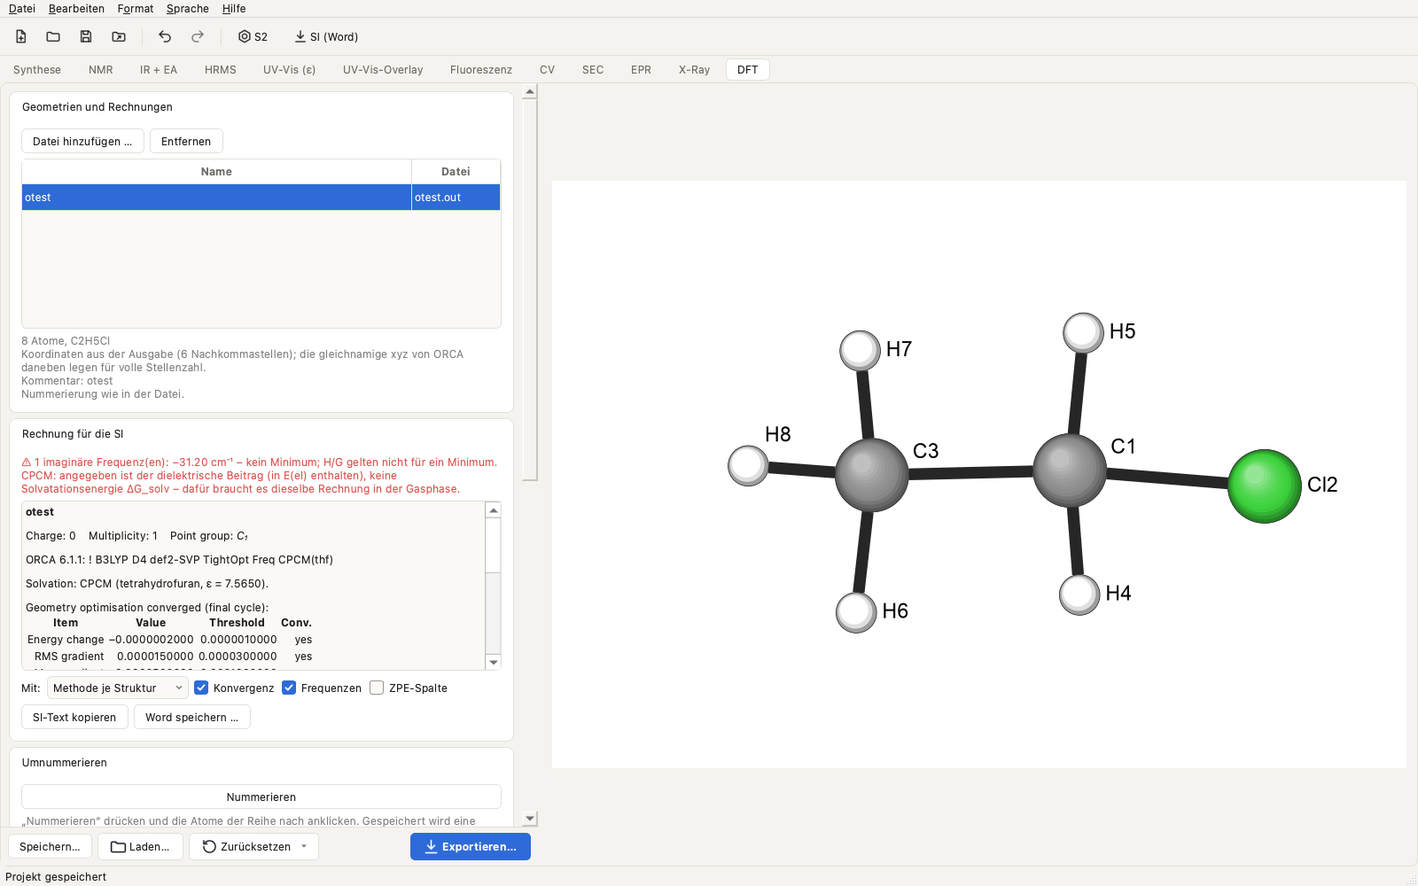
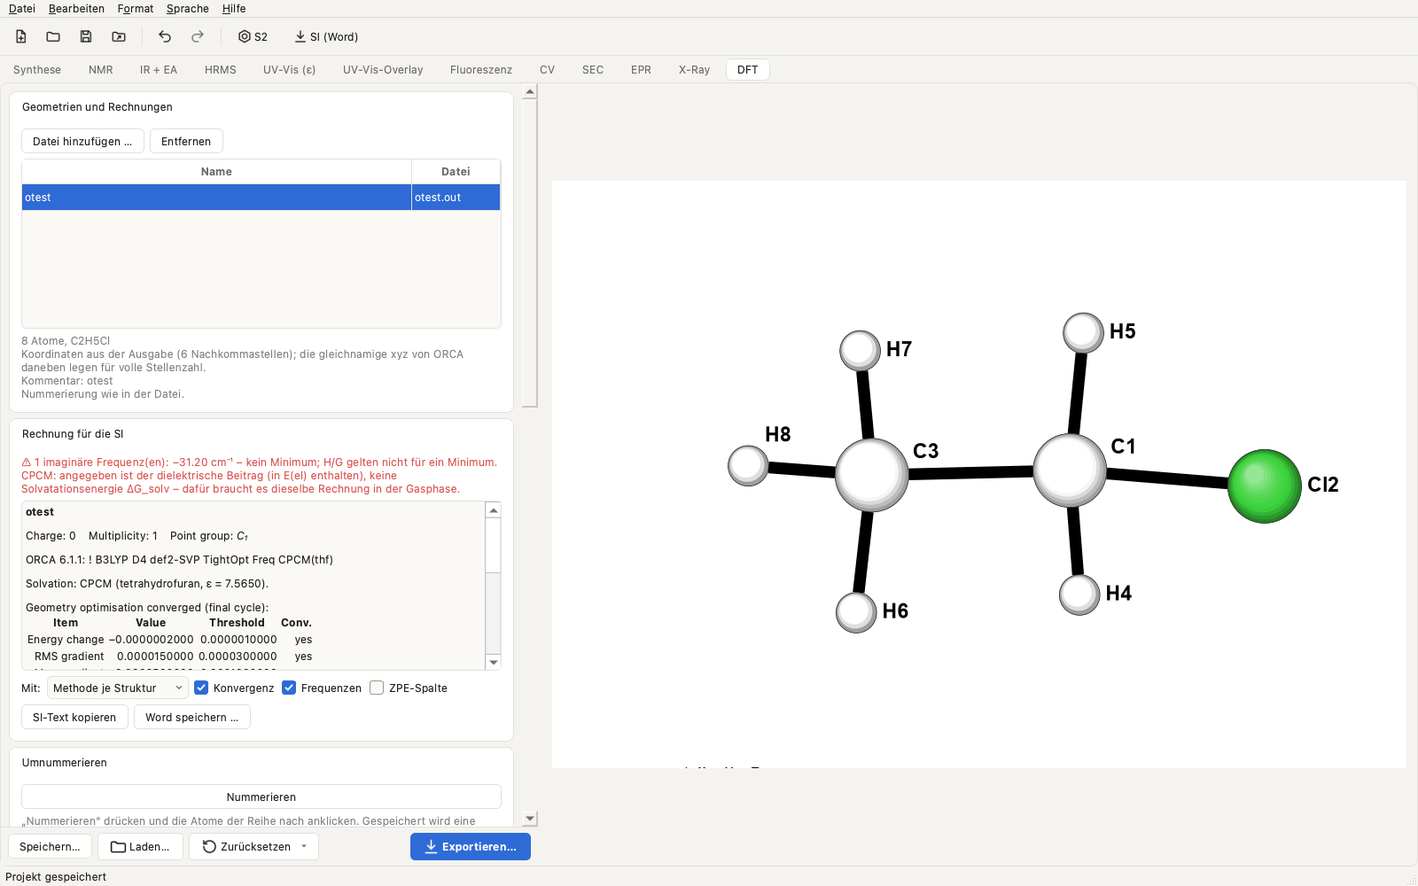
Structure styles: Mercury like Mercury figures (white C, black bonds, bold labels), glossy ball and stick (IboView), ball and stick with depth; README/CHANGELOG, screenshots

Changed region(s): [[0.5312, 0.403, 0.875, 0.682]]

diff --git a/uvvis_xray.py b/uvvis_xray.py
@@ -316,7 +316,9 @@ COV = {"H": 0.31, "D": 0.31, "He": 0.28, "Li": 1.28, "Be": 0.96, "B": 0.84, "C":
 BOND_TOL = 0.45
 
 
-def default_color(el):
+def default_color(el, style=None):
+    if style == "mercury" and el == "C":           # Mercury-Ellipsoide: Kohlenstoff weiß (grau schattiert)
+        return "#FFFFFF"
     if el in OLEX2_COLORS:
         return OLEX2_COLORS[el]
     if el in METALS:
@@ -1415,7 +1417,47 @@ def shade_colors(color, n):
     return out
 
 
-def shade_layers(it, n):
+STYLES = ("mercury", "flat", "ballstick", "depth")
+BALL_STYLES = ("ballstick", "depth")      # Kugel-Stab: Kugeln nach Element statt Ellipsoiden, Stäbe in Atomfarben
+DEPTH_A = 6.0                             # Tiefe (Å), über die der Stil „depth“ voll aufhellt
+# Stab als Zylinder: übereinanderliegende Linien abnehmender Breite, Rand dunkel -> Mitte hell (Anteil, Helligkeit)
+ROD_LAYERS = ((1.0, -0.45), (0.86, -0.25), (0.7, 0.0), (0.52, 0.18), (0.34, 0.36), (0.18, 0.55))
+
+
+def ball_radius(el):
+    """Kugelradius im Kugel-Stab-Modell (Å): proportional zum kovalenten Radius, H nicht zu klein."""
+    return max(0.2, 0.42 * COV.get(el, 0.76))
+
+
+def gloss_colors(color, n):
+    """Glänzende Kugel (wie IboView/CYLview): dunkler Rand, Grundfarbe, kräftiger weißer Glanzpunkt oben links."""
+    base = np.array(to_rgb(color))
+    out = []
+    for t in np.linspace(0, 1, n):
+        if t < 0.45:
+            c = base * (0.42 + 0.58 * t / 0.45)
+        else:
+            c = base + (1 - base) * 0.92 * ((t - 0.45) / 0.55) ** 2.2
+        out.append(tuple(np.clip(c, 0, 1)))
+    return out
+
+
+def matte_colors(color, n, fog=0.0):
+    """Matte Kugel mit Tiefe: weicher Verlauf, nach hinten zum Weiß hin aufgehellt (fog 0 … 1)."""
+    base = np.array(to_rgb(color))
+    out = []
+    for t in np.linspace(0, 1, n):
+        c = base * (0.7 + 0.3 * t / 0.4) if t < 0.4 else base + (1 - base) * 0.32 * ((t - 0.4) / 0.6) ** 1.5
+        out.append(tuple(np.clip(c + (1 - c) * fog, 0, 1)))
+    return out
+
+
+def fogged(color, fog):
+    c = np.array(to_rgb(color))
+    return tuple(np.clip(c + (1 - c) * fog, 0, 1))
+
+
+def shade_layers(it, n, shift=0.55, smin=0.25):
     """Polygone der Schattierungsschichten (äußere zuerst). Jede Schicht ist die verkleinerte Ellipse, zum Licht
     verschoben, aber immer ganz innerhalb des Umrisses (Abstand in der Metrik der Ellipse ≤ 1 − s)."""
     a, b = it["w"] / 2, it["h"] / 2
@@ -1424,8 +1466,8 @@ def shade_layers(it, n):
     v = -LIGHT[0] * math.sin(th) + LIGHT[1] * math.cos(th)
     nrm = math.sqrt((u / a) ** 2 + (v / b) ** 2) or 1.0
     verts = []
-    for s in np.linspace(1.0, 0.25, n):
-        d = (1 - s) * 0.55 / nrm
+    for s in np.linspace(1.0, smin, n):
+        d = (1 - s) * shift / nrm
         verts.append(_ellipse_verts(it["x"] + LIGHT[0] * d, it["y"] + LIGHT[1] * d, it["w"] * s, it["h"] * s,
                                     it["ang"]))
     return verts
@@ -1498,7 +1540,11 @@ class XrayFigure:
         self.center = pts.mean(axis=0)
         self.rmax = float(np.max(np.linalg.norm(pts - self.center, axis=1))) + 1.0
         sc = cfg.get("scale", 1.0)
-        self.bond_w = float(opts.get("bond_w", 0.08))           # Bindungsdicke in Å (Mercury: Zylinder)
+        self.style = opts.get("style", "mercury")
+        self.ball = self.style in BALL_STYLES
+        # Bindungsdicke in Å (Mercury: Zylinder); Kugel-Stab: kräftige Stäbe
+        self.bond_w = float(opts.get("bond_w", 0.08)) * (2.6 if self.ball else 1.0)
+        self.bond_fac = {}                                       # Linie -> Anteil der Stabbreite (schattierte Stäbe)
         self.lw_edge = max(0.4, 0.6 * sc)
         self.atom_art, self.bond_art, self.sel_art, self.bond_lines = {}, [], [], {}
         self.auto_pos = {}
@@ -1561,6 +1607,9 @@ class XrayFigure:
         for it in scene["atoms"]:
             if it["k"] in self.wire:                       # Drahtmodell: kein Ellipsoid, kleiner Klickbereich
                 it.update(w=0.24, h=0.24, ang=0.0, iso=True, kind="wire", curves=[])
+            elif self.ball:                                # Kugel-Stab: Kugel nach Element, keine Hauptachsen
+                r = ball_radius(self.mol.atoms[it["k"]]["el"])
+                it.update(w=2 * r, h=2 * r, ang=0.0, iso=True, curves=[])
         scene["by_k"] = {it["k"]: it for it in scene["atoms"]}
         return scene
 
@@ -1580,17 +1629,30 @@ class XrayFigure:
         if it.get("kind") == "wire":
             return []
         base = _ellipse_verts(it["x"], it["y"], it["w"], it["h"], it["ang"])
-        if self.opts.get("style", "mercury") == "flat":
+        if self.style == "flat":
             return [base, base]
+        if self.style == "ballstick":                      # Glanzpunkt kleiner und weiter oben links
+            return shade_layers(it, 16, shift=0.8, smin=0.1) + [base]
+        if self.style == "depth":
+            return shade_layers(it, 10, shift=0.45, smin=0.3) + [base]
         n = 6 if it.get("kind") == "H" else 12
         return shade_layers(it, n) + [base]
 
+    def _fog(self, z):
+        """Tiefe (nur Stil „Kugel-Stab mit Tiefe“): vorn unverändert, je Å nach hinten heller, ab 6 Å hinter dem
+        vordersten Atom 55 % zum Weiß – kleine Moleküle bleiben so fast unverändert, große bekommen Tiefe."""
+        if self.style != "depth":
+            return 0.0
+        return 0.55 * min(1.0, max(0.0, (self._zmax - z) / DEPTH_A))
+
     def _build(self):
         ax, colors = self.ax, self.opts.get("colors") or {}
-        mercury = self.opts.get("style", "mercury") != "flat"
+        mercury = self.style == "mercury"
+        zs = [it["z"] for it in self.scene["atoms"]] or [0.0]
+        self._zmax, self._zspan = max(zs), max(zs) - min(zs)
         for it in self.scene["atoms"]:
             a = self.mol.atoms[it["k"]]
-            col = colors.get(a["el"]) or default_color(a["el"])
+            col = colors.get(a["el"]) or default_color(a["el"], self.style)
             verts = self._layers(it)
             if not verts:                                  # Drahtmodell: nur die Bindungen
                 p = PolyCollection([], facecolors="none", edgecolors="none")
@@ -1598,11 +1660,16 @@ class XrayFigure:
                 self.atom_art[it["k"]] = (p, [])
                 continue
             nfill = len(verts) - 1
-            faces = shade_colors(col, nfill) if mercury else [col]
-            edge = (0.1, 0.1, 0.1) if mercury else (0, 0, 0)
+            if self.style == "ballstick":
+                faces, edge, elw = gloss_colors(col, nfill), (0.25, 0.25, 0.25), 0.45 * self.lw_edge
+            elif self.style == "depth":
+                faces, edge, elw = matte_colors(col, nfill, self._fog(it["z"])), "none", 0.0
+            elif mercury:
+                faces, edge, elw = shade_colors(col, nfill), (0.1, 0.1, 0.1), 0.8 * self.lw_edge
+            else:
+                faces, edge, elw = [col], (0, 0, 0), self.lw_edge
             p = PolyCollection(verts, facecolors=faces + ["none"], edgecolors=["none"] * nfill + [edge],
-                               linewidths=[0] * nfill + [self.lw_edge * (0.8 if mercury else 1.0)],
-                               antialiaseds=True, closed=True)
+                               linewidths=[0] * nfill + [elw], antialiaseds=True, closed=True)
             ax.add_collection(p)
             lines = []
             for xs, ys in it["curves"]:
@@ -1623,7 +1690,22 @@ class XrayFigure:
                     self.bond_art.append((a, b, ln, half))
                     self.bond_lines[n].append(ln)
                 continue
-            ln = Line2D(xs, ys, color="#262626" if mercury else "black", lw=self.lw_bond, solid_capstyle="butt")
+            if self.ball:                                  # schattierter Stab, je Hälfte in der Atomfarbe
+                self.bond_lines[n] = []
+                fog = self._fog(self.scene["bonds"][n][2])
+                for half, k in ((0, a), (1, b)):
+                    el = self.mol.atoms[k]["el"]
+                    base = np.array(to_rgb(colors.get(el) or default_color(el, self.style)))
+                    for fac, lt in ROD_LAYERS:
+                        c = base * (1 + lt) if lt < 0 else base + (1 - base) * lt
+                        ln = Line2D(*_half(xs, ys, half), color=fogged(c, fog), lw=self.lw_bond * fac,
+                                    solid_capstyle="butt")
+                        ax.add_line(ln)
+                        self.bond_art.append((a, b, ln, half))
+                        self.bond_fac[ln] = fac
+                        self.bond_lines[n].append(ln)
+                continue
+            ln = Line2D(xs, ys, color="black", lw=self.lw_bond, solid_capstyle="butt")
             ax.add_line(ln)
             self.bond_art.append((a, b, ln, None))
             self.bond_lines[n] = [ln]
@@ -1686,7 +1768,8 @@ class XrayFigure:
         self.lw_bond = max(0.6, self.bond_w * self.pt_per_A())
         self.lw_wire = max(0.7, 0.4 * self.lw_bond)
         for _, _, ln, half in self.bond_art:
-            ln.set_linewidth(self.lw_bond if half is None else self.lw_wire)
+            fac = self.bond_fac.get(ln)
+            ln.set_linewidth(self.lw_bond * fac if fac is not None else self.lw_bond if half is None else self.lw_wire)
 
     def artists(self):
         return self.order
@@ -1709,16 +1792,17 @@ class XrayFigure:
         lc = self.cfg["labels"]
         fs = o.get("label_size") or lc["font_size"]           # eigene Labelgröße des Tabs (0 = Textformat)
         todo = []
-        flat = o.get("style", "mercury") == "flat"
-        # Mercury: normale Schrift ohne Rand; flach (Olex2): fett mit weißem Rand
-        extra = dict(fontweight="bold", path_effects=[PE.withStroke(linewidth=2.2 * self.cfg.get("scale", 1.0),
-                                                                    foreground="white")]) if flat else {}
+        halo = [PE.withStroke(linewidth=2.2 * self.cfg.get("scale", 1.0), foreground="white")]
+        # Mercury: fett ohne Rand (wie Mercury-Abbildungen); flach (Olex2): fett mit weißem Rand; Kugel-Stab: normal
+        # mit weißem Rand (Labels über glänzenden Kugeln lesbar)
+        extra = {"flat": dict(fontweight="bold", path_effects=halo), "mercury": dict(fontweight="bold")}.get(
+            self.style, dict(path_effects=halo))
         for it in self.scene["atoms"]:
             a = self.mol.atoms[it["k"]]
             if not label_shown(a, o):
                 continue
             key = "lbl_" + a["key"]
-            ann = self.ax.annotate(self._label_text(a, flat), xy=(it["x"], it["y"]), xycoords="data",
+            ann = self.ax.annotate(self._label_text(a, self.style in ("flat", "mercury")), xy=(it["x"], it["y"]), xycoords="data",
                                    xytext=(0, 0), textcoords="offset points", ha="center", va="center",
                                    fontsize=fs, color=lc.get("color") or "black", zorder=60,
                                    annotation_clip=False, **extra)
@@ -2317,7 +2401,7 @@ class XrayTab(MeasureAlign, TABS.FigureTab):
     TEXT_OPTS = ("fonts", "labels")              # Labelgröße hat der Tab selbst
     DEFAULT_STATE = dict(size="half_a4", w_cm=16.0, h_cm=11.0, fmt={"pdf": True, "svg": True, "png": True},
                          layout={}, entries=[], current=None, prob=50, show_h=True, disorder="main", labels=True,
-                         h_labels=False, colors={}, bond_w=0.08, style="mercury", x_auto=True, x_min=0.0,
+                         h_labels=False, colors={}, bond_w=0.12, style="mercury", x_auto=True, x_min=0.0,
                          x_max=1.0, ymax=0.0, label_mode="all", hide_solv=False, hide_ions=False, wire_h=False)
 
     def __init__(self, main, state):
@@ -2359,7 +2443,7 @@ class XrayTab(MeasureAlign, TABS.FigureTab):
         g = QGroupBox(T("xr_display"))
         f = make_form(g)
         self.cmb_style = QComboBox()
-        for key in ("mercury", "flat"):
+        for key in STYLES:
             self.cmb_style.addItem(T("xr_style_" + key), key)
         self.cmb_style.setCurrentIndex(max(0, self.cmb_style.findData(st.get("style", "mercury"))))
         f.addRow(T("xr_style"), self.cmb_style)
@@ -2751,7 +2835,8 @@ class XrayTab(MeasureAlign, TABS.FigureTab):
             h = QHBoxLayout(box)
             h.setContentsMargins(0, 0, 0, 0)
             h.addWidget(QLabel(el))
-            h.addWidget(TABS.color_button(cols.get(el) or default_color(el), lambda c, el=el: self.set_color(el, c)))
+            h.addWidget(TABS.color_button(cols.get(el) or default_color(el, self.st.get("style")),
+                                          lambda c, el=el: self.set_color(el, c)))
             self.color_grid.addWidget(box, n // 4, n % 4)
 
     def set_color(self, el, c):

diff --git a/uvvis_gui.py b/uvvis_gui.py
@@ -4090,7 +4090,7 @@ def selftest(outdir, with_isnet=False):
         assert w.xray_state["style"] == "mercury"
         pc_ = t_x.F.atom_art[t_x.F.mol.find_key("C1")][0]
         assert len(pc_.get_paths()) == 13, len(pc_.get_paths())                 # 12 Schichten + Umriss
-        assert "lbl_C1" in t_x.F.ann_items and t_x.F.ann_items["lbl_C1"].get_fontweight() == "normal"
+        assert "lbl_C1" in t_x.F.ann_items and t_x.F.ann_items["lbl_C1"].get_fontweight() == "bold"   # wie Mercury-Bilder
         w.xray_state["label_pt"] = 12.5                                     # Labelgröße je Tab
         t_x.render(push=False)
         assert t_x.F.ann_items["lbl_C1"].get_fontsize() == 12.5
@@ -4210,10 +4210,31 @@ def selftest(outdir, with_isnet=False):
         t_x.reset_display()
         d_x = XRAY.XrayTab.DEFAULT_STATE
         assert all(w.xray_state[k_] == d_x[k_] for k_ in ("bond_w", "prob", "style", "show_h", "disorder"))
-        assert w.xray_state["label_pt"] == 0.0 and abs(t_x.sp_bond.value() - 0.08) < 1e-9 and t_x.sp_prob.value() == 50
+        assert w.xray_state["label_pt"] == 0.0 and abs(t_x.sp_bond.value() - 0.12) < 1e-9 and t_x.sp_prob.value() == 50
         assert not e_x["hidden_atoms"] and not e_x["label_on"] and not e_x["wire"] and e_x["zoom"] == 1.0
         assert len(w.xray_state["entries"]) == n_ent and e_x["name"] == "umbenannt" and e_x["params"] == params_
         assert t_x.F is not None
+        # Stile: Mercury (C weiß, schwarze Bindungen, fette Labels), Olex2, Kugel-Stab glänzend, Kugel-Stab mit Tiefe
+        for sty_ in XRAY.STYLES:
+            w.xray_state["style"] = sty_
+            t_x.render()
+            F_s = t_x.F
+            assert F_s.style == sty_
+            c_it = next(i_ for i_ in F_s.scene["atoms"] if i_["el"] == "C")
+            if sty_ in XRAY.BALL_STYLES:
+                assert abs(c_it["w"] - 2 * XRAY.ball_radius("C")) < 1e-9 and c_it["w"] == c_it["h"] and not c_it["curves"]
+                assert sorted(set(F_s.bond_fac.values())) == sorted(f_ for f_, _ in XRAY.ROD_LAYERS)
+            if sty_ == "mercury":
+                fc_ = F_s.atom_art[c_it["k"]][0].get_facecolors()
+                assert min(fc_[-2][:3]) > 0.9 and XRAY.default_color("C", "mercury") == "#FFFFFF"   # Glanz fast weiß
+                assert all(a_.get_fontweight() == "bold" for a_ in F_s.ann_items.values())
+                assert all(ln_.get_color() == "black" for _, _, ln_, h_ in F_s.bond_art if h_ is None)
+            if sty_ == "depth":
+                assert F_s._fog(F_s._zmax) == 0.0 and abs(F_s._fog(F_s._zmax - XRAY.DEPTH_A - 1) - 0.55) < 1e-9
+            f_s = t_x.export_to(out / f"xray_style_{sty_}")
+            assert all(f_.exists() and f_.stat().st_size > 500 for f_ in f_s if f_.suffix in (".pdf", ".svg", ".png"))
+        w.xray_state["style"] = "mercury"
+        t_x.render()
         report.append(f"X-Ray (CIF, symmetry, disorder, ORTEP, picking, tables, wireframe, caption): OK "
                       f"({npath_} pdf paths)")
         w.xray_state.update(entries=[], current=None, show_h=True, hide_solv=False, label_mode="all")

diff --git a/uvvis_i18n.py b/uvvis_i18n.py
@@ -1123,6 +1123,8 @@ TEXTS = {
     "xr_style": ("Stil", "Style"),
     "xr_style_mercury": ("Mercury (schattiert)", "Mercury (shaded)"),
     "xr_style_flat": ("Olex2 (flach, fette Labels)", "Olex2 (flat, bold labels)"),
+    "xr_style_ballstick": ("Kugel-Stab, glänzend (wie IboView)", "Ball and stick, glossy (like IboView)"),
+    "xr_style_depth": ("Kugel-Stab mit Tiefe (hinten heller)", "Ball and stick with depth (back lighter)"),
     "xr_atoms": ("Atome", "Atoms"),
     "xr_atom": ("Atom", "Atom"),
     "xr_atom_shown": ("zeigen", "show"),

diff --git a/uvvis_dft.py b/uvvis_dft.py
@@ -1002,7 +1002,7 @@ class DFTTab(XRAY.MeasureAlign, TABS.FigureTab):
         g = QGroupBox(T("xr_display"))
         f = make_form(g)
         self.cmb_style = QComboBox()
-        for key in ("mercury", "flat"):
+        for key in XRAY.STYLES:
             self.cmb_style.addItem(T("xr_style_" + key), key)
         f.addRow(T("xr_style"), self.cmb_style)
         self.cb_h = QCheckBox(T("xr_show_h"))

diff --git a/README.de.md b/README.de.md
@@ -266,8 +266,10 @@ Word-Exporte. Die Größe bleibt 11 pt, weil „zwei Abbildungen je Seite“ mit
   (eine Spalte in den Tabellen). Elucida liest die CIF selbst (Zelle, Koordinaten, U_iso/U_ij, Besetzung, PART,
   Symmetrieoperationen, `_geom_bond`/`_geom_angle`/`_geom_torsion`); keine weitere Software nötig.
 - **ORTEP-Abbildung im Mercury-Stil:** schattierte Schwingungsellipsoide mit 50 % Aufenthaltswahrscheinlichkeit
-  (einstellbar), exakt projiziert, mit den Hauptachsen-Ellipsen; H-Atome als kleine schattierte Kugeln, normale
-  Labels (verschiebbar). Alternativ flacher Olex2-Stil mit fetten Labels. Einzelne Atome (z. B. einzelne H) lassen
+  (einstellbar), exakt projiziert, mit den Hauptachsen-Ellipsen; Kohlenstoff weiß mit grauer Schattierung, schwarze
+  Bindungen, fette Labels (verschiebbar), H-Atome als kleine schattierte Kugeln. Weitere Stile (auch in PDF/SVG/PNG und
+  Word): flacher Olex2-Stil; **Kugel-Stab, glänzend** (wie IboView, Stäbe in Atomfarben); **Kugel-Stab mit Tiefe**
+  (weiter hinten liegende Atome heller). Einzelne Atome (z. B. einzelne H) lassen
   sich ausblenden und Labels **je Atom** an-/abschalten (Atomliste oder Doppelklick auf das Atom).
   **Ziehen dreht**, rechte Taste verschiebt, Mausrad zoomt; die Ansicht wird je Struktur gespeichert,
   **Ansicht zurücksetzen** führt zur Standardansicht (möglichst wenig überdeckte Atome). Atomfarben je Element frei wählbar
@@ -299,8 +301,11 @@ Word-Exporte. Die Größe bleibt 11 pt, weil „zwei Abbildungen je Seite“ mit
 ## DFT-Tab
 
 - **xyz**-Dateien (auch Trajektorien; gezeigt wird das letzte Bild) oder Ausgaben von **ORCA 6** (`.out`) und
-  **Gaussian** (`.log`) laden. Dateien aus einer PowerShell-Umleitung (UTF-16) werden erkannt. Abbildung und Maus wie
-  im X-Ray-Tab.
+  **Gaussian** (`.log`) laden. Dateien aus einer PowerShell-Umleitung (UTF-16) werden erkannt. Abbildung, Stile und
+  Maus wie im X-Ray-Tab.
+- **Messen und Ausrichten** wie im X-Ray-Tab: 2/3/4 Atome anklicken für Abstand, Winkel oder Diederwinkel (Werte aus der
+  Geometrie, 3 bzw. 1 Nachkommastelle); Bindung nach unten/oben/links/rechts, Ebene von vorn, schrittweise drehen,
+  wenden, ChemDraw-Vorlage.
 - **Umnummerieren:** **Nummerieren** drücken und die Atome in der gewünschten Reihenfolge anklicken; **Übernehmen**
   stellt sie nach vorn, die übrigen behalten ihre Reihenfolge (wahlweise H direkt hinter ihrem Atom). **xyz speichern**
   schreibt eine neue Datei mit unveränderten Zeilen (nur umsortiert); die geladene Datei wird nie überschrieben.

diff --git a/README.md b/README.md
@@ -258,8 +258,9 @@ Word exports. The size stays 11 pt, because "two figures per page" is calculated
   column in the tables). Elucida reads the CIF itself (cell, coordinates, U_iso/U_ij, occupancy, PART, symmetry
   operations, `_geom_bond`/`_geom_angle`/`_geom_torsion`); no extra software needed.
 - **ORTEP figure in the Mercury style:** shaded displacement ellipsoids at 50 % probability (adjustable), projected
-  exactly, with the principal ellipses; H atoms as small shaded spheres, plain labels (draggable). Alternatively a
-  flat Olex2 style with bold labels. Single atoms (e.g. individual H) can be hidden and labels switched **per atom**
+  exactly, with the principal ellipses; carbon white with grey shading, black bonds, bold labels (draggable), H atoms as
+  small shaded spheres. Further styles (also in PDF/SVG/PNG and Word): flat Olex2 style; **ball and stick, glossy**
+  (like IboView, rods coloured by atom); **ball and stick with depth** (atoms further back lighter). Single atoms (e.g. individual H) can be hidden and labels switched **per atom**
   (atom list or double-click on the atom). **Drag to rotate**,
   right button to pan, mouse wheel to zoom; the view is stored per structure, **Reset view** goes back to the
   default orientation (least overlap of the atoms). Atom colours per element are freely selectable (Olex2
@@ -290,7 +291,9 @@ Word exports. The size stays 11 pt, because "two figures per page" is calculated
 ## DFT tab
 
 - Load **xyz** files (also trajectories; the last frame is shown) or outputs of **ORCA 6** (`.out`) and **Gaussian**
-  (`.log`). Files written by a PowerShell redirect (UTF-16) are recognised. Figure and mouse as in the X-Ray tab.
+  (`.log`). Files written by a PowerShell redirect (UTF-16) are recognised. Figure, styles and mouse as in the X-Ray tab.
+- **Measure and align** as in the X-Ray tab: click 2/3/4 atoms for distance, angle or dihedral (values from the
+  geometry, 3 or 1 decimals); bond pointing down/up/left/right, plane face-on, step rotation, flip, ChemDraw template.
 - **Renumber:** press **Number atoms** and click the atoms in the desired order; **Apply** puts them in front, the
   remaining atoms keep their order (optionally H atoms right after their atom). **Save xyz** writes a new file with the
   lines unchanged (only reordered); the loaded file is never overwritten. Counting from 0 (ORCA) can be shown.

diff --git a/CLAUDE.md b/CLAUDE.md
@@ -80,7 +80,12 @@ Fluoreszenz, CV, SEC, EPR, X-Ray (CIF) und DFT (xyz); SI-Abschnitt als Word-Date
   `disorder_assembly` der Teil mit der größten Besetzung. Ellipsoide: k = √χ²₃(p) (50 % → 1.5382), Umriss = 2×2-Block
   von R·U·Rᵀ. Aussehen Standard **wie Mercury** (Nutzerwunsch): schattierte Schichten (`shade_layers`, Licht oben
   links, matt, Schichten immer innerhalb des Umrisses, keine Clip-Pfade), H-Radius 0.09 Å, Bindungsdicke in Å
-  (`bond_w`, Standard 0.08, skaliert mit dem Zoom wie Mercurys Zylinder), normale Labels; „flach“ = Olex2 (fett, weißer Rand).
+  (`bond_w`, Standard 0.12 seit 1.26, skaliert mit dem Zoom wie Mercurys Zylinder); seit 1.26 nach Nutzervorlage
+  C weiß (grau schattiert, `default_color(el, style)`), Bindungen schwarz, Labels fett ohne Rand; „flach“ = Olex2 (fett,
+  weißer Rand). Kugel-Stil (`BALL_STYLES`): „ballstick“ glänzend wie IboView (`gloss_colors`), „depth“ matt mit Aufhellung
+  nach hinten (`DEPTH_A` = 6 Å bis 55 %); Kugelradius `ball_radius` (0.42 × kovalent, H ≥ 0.2 Å), Stäbe 2.6 × `bond_w`
+  als Zylinder aus `ROD_LAYERS`, je Hälfte in Atomfarbe. Messen/Ausrichten gemeinsam für X-Ray und DFT (`MeasureAlign`;
+  DFT: `MEASURE_ESD = False`, Klick = Auswahl, im Nummerier-Modus = Nummer).
   Labels/Atome je Atom über `label_on`/`hidden_atoms` (Schlüssel Label|Operation). Tabellen englisch beschriftet, Zahlen exakt wie in der CIF, echtes Minus (U+2212).
   Drahtmodell (`wire`, Atom-Schlüssel): Bindung → kleinere Seite (`Molecule.substituent`), in Ringen das Ringsystem hinter
   dem ersten Atom (`beyond`, höchstens halbes Fragment); H daran nur mit `wire_h`. Fragmentart über die Summenformel

diff --git a/CHANGELOG.de.md b/CHANGELOG.de.md
@@ -4,7 +4,16 @@
 
 ## 1.26.0 – 22.10.2026
 
+### Neu
+- **DFT-Tab: Messen und Ausrichten** wie im X-Ray-Tab – Abstand, Winkel und Diederwinkel durch Anklicken von 2/3/4 Atomen
+  (Werte aus der Geometrie), Bindungsrichtung, Ebene von vorn, schrittweise drehen, wenden und ChemDraw-Vorlage. Beide
+  Tabs nutzen denselben Code und verhalten sich gleich.
+- **Neue Stile für Strukturen** im X-Ray- und DFT-Tab (Vorschau, PDF/SVG/PNG, Word): **Kugel-Stab, glänzend** (wie
+  IboView: glänzende Kugeln, Stäbe in Atomfarben) und **Kugel-Stab mit Tiefe** (weiter hinten liegende Atome heller).
+
 ### Geändert
+- **Mercury-Stil** sieht jetzt aus wie Mercury-Abbildungen: Kohlenstoff weiß mit grauer Schattierung, schwarze
+  Bindungen, fette Labels; Standard-Bindungsdicke 0.12 Å (bestehende Projekte behalten ihre Einstellung).
 - **Neuer Name: Elucida** (früher Spectravolt). Das Programm ist von UV-Vis und Elektrochemie zu einer ganzen
   Charakterisierungs-Suite gewachsen (Synthese, NMR, IR, HRMS, UV-Vis, Fluoreszenz, CV, SEC, EPR, Röntgenstruktur, DFT).
   Einstellungen, zuletzt geöffnete Projekte und der Datenordner (z. B. das Modell zur Freistellung) werden beim ersten

diff --git a/CHANGELOG.md b/CHANGELOG.md
@@ -4,7 +4,16 @@
 
 ## 1.26.0 – 2026-10-22
 
+### New
+- **DFT tab: measure and align** like the X-Ray tab – distance, angle and dihedral by clicking 2/3/4 atoms (values
+  from the geometry), bond direction, plane face-on, step rotation, flip and ChemDraw template. Both tabs share the
+  same code, so they behave identically.
+- **New structure styles** in the X-Ray and DFT tabs (preview, PDF/SVG/PNG, Word): **ball and stick, glossy** (like
+  IboView: shiny spheres, rods coloured by atom) and **ball and stick with depth** (atoms further back lighter).
+
 ### Changed
+- **Mercury style** now looks like Mercury figures: carbon white with grey shading, black bonds, bold labels; default
+  bond thickness 0.12 Å (existing projects keep their setting).
 - **New name: Elucida** (formerly Spectravolt). The program has grown from UV-Vis and electrochemistry into a full
   characterization suite (synthesis, NMR, IR, HRMS, UV-Vis, fluorescence, CV, SEC, EPR, X-ray, DFT). Settings, recent
   projects and the data folder (e.g. the background-removal model) are taken over automatically on the first start;
